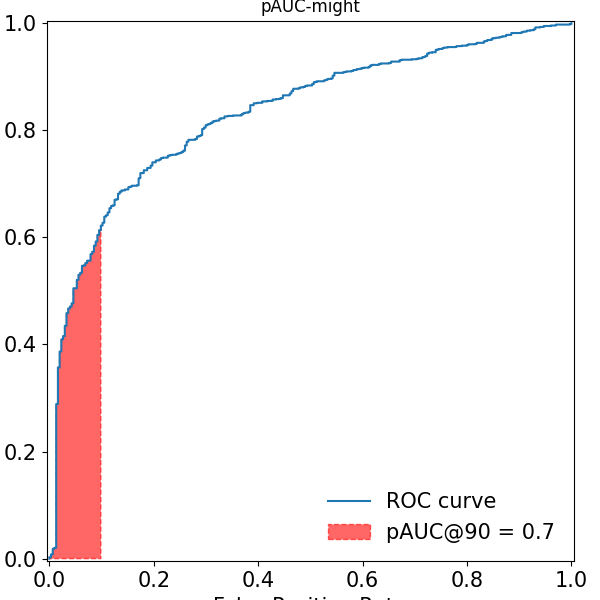
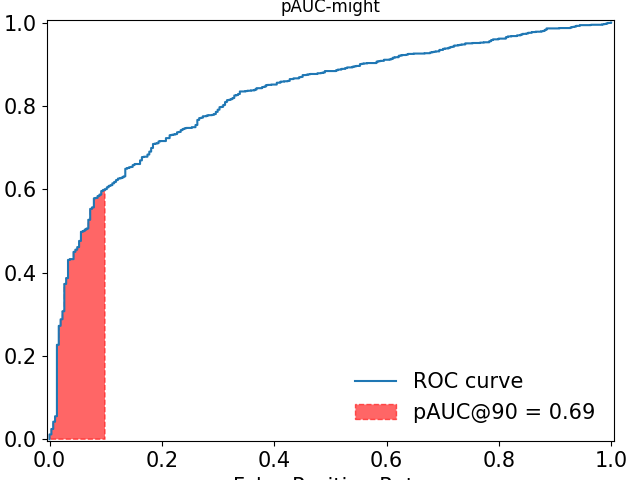
Replication--5 method roc curve in one

Changed region(s): [[0.0, 0.0, 0.99, 1.0], [0.48, 0.0938, 0.72, 0.1562]]

diff --git a/BDD_cancer/cohort_1_demo.py b/BDD_cancer/cohort_1_demo.py
@@ -1,4 +1,5 @@
 from pathlib import Path
+import matplotlib.pyplot as plt
 
 import numpy as np
 from joblib import Parallel, delayed
@@ -26,7 +27,7 @@ import matplotlib.pyplot as plt
 import tree_metrics
 from print_importance import might_importance
 
-n_estimators = 1000
+n_estimators = 5000
 max_features = 0.3
 
 MODEL_NAMES = {
@@ -219,20 +220,17 @@ def run_alog(f1, cohort=cohort1, model_name='might'):
 
     # metrics
     S98 = np.max(tpr[fpr <= 0.02])
-    
-    tree_metrics.plot_S98(S98, fpr, tpr, model_name)
-
+    # tree_metrics.plot_S98(S98, fpr, tpr, model_name)
     MI = tree_metrics.Calculate_MI(model_name, y_1, POS)
-
     pAUC = tree_metrics.Calculate_pAUC(model_name, y_1, POS, fpr, tpr)
-
     hd = tree_metrics.Calculate_hd(model_name, POS)
 
     # importance
-    might_importance(model_name, est, X_combine)
+    # might_importance(model_name, est, X_combine)
 
     # save the model
-    output_fname = (f"{model_name}.npz")
+    output_dir = "./npz"
+    output_fname = os.path.join(output_dir, f"{model_name}.npz")
     print(model_name, f1)
     print(model_name, S98, MI, pAUC, hd)
     np.savez_compressed(
@@ -245,9 +243,53 @@ def run_alog(f1, cohort=cohort1, model_name='might'):
         pAUC=pAUC,
         hd=hd
     )
-    return S98
+    # return S98
+    return {
+        'fpr': fpr,
+        'tpr': tpr,
+        'thresholds': thresholds,
+        'y': y_1,  
+        'POS': POS  
+    }
 
+def plot_all_roc_curves(models, results, save_path="./figures/roc_curves_comparison.png"):
+    plt.figure(figsize=(8, 6))
+    for model_name, result in results.items():
+        fpr, tpr, pAUC = result['fpr'], result['tpr'], result['pAUC']
+        plt.plot(fpr, tpr, label=f'{model_name} (pAUC={pAUC:.3f})')
 
-for i in range(20):
-    Parallel(n_jobs=20)(delayed(run_alog)(f1='WiseCondorX.Wise-1', cohort=cohort1, model_name=modelname)
-                        for modelname in ['might', 'rf', 'knn', 'lr', 'svm'])
+    plt.plot([0, 1], [0, 1], 'k--', lw=1)  
+    # plt.xlim([0.0, 0.02])  
+    # plt.ylim([0.0, 1.0])
+    plt.xlabel('False Positive Rate (FPR)', fontsize=22)
+    plt.ylabel('True Positive Rate (TPR)', fontsize=22)
+    plt.title('ROC Curve Comparison', fontsize=22)
+    plt.legend(loc='lower right', fontsize=20)
+    plt.grid(alpha=0.5)
+    
+    plt.savefig(save_path, dpi=300)
+    print(f"ROC curves saved to {save_path}")
+    plt.show()
+
+################# Run this if you want to plot Roc curve ############################
+# Plot ROC curves for all models, run only once. DON'T need 20 times
+results = {}
+for model_name in ['might', 'rf', 'knn', 'lr', 'svm']:
+    result = run_alog(f1='WiseCondorX.Wise-1', cohort=cohort2, model_name=model_name)
+    fpr = result['fpr']
+    tpr = result['tpr']
+    y_true = result['y']
+    y_pred_proba = result['POS']
+    pAUC = tree_metrics.Calculate_pAUC(model_name, y_true, y_pred_proba, fpr, tpr)
+    results[model_name] = {
+        'fpr': fpr,
+        'tpr': tpr,
+        'pAUC': pAUC
+    }
+
+plot_all_roc_curves(['might', 'rf', 'knn', 'lr', 'svm'], results, save_path="./figures/roc_curves_comparison.png")
+#############################################
+
+# for i in range(20):
+#     Parallel(n_jobs=20)(delayed(run_alog)(f1='WiseCondorX.Wise-1', cohort=cohort1, model_name=modelname)
+#                         for modelname in ['might', 'rf', 'knn', 'lr', 'svm'])

diff --git a/BDD_cancer/tree_metrics.py b/BDD_cancer/tree_metrics.py
@@ -32,7 +32,7 @@ def Calculate_hd(model_name, y_pred_proba) -> float:
 
 
 def plot_S98(S98, fpr, tpr, model_name):
-    fig, ax = plt.subplots(figsize=(6, 6))
+    fig, ax = plt.subplots()
     fig.tight_layout()
     ax.tick_params(labelsize=15)
     ax.set_xlim([-0.005, 1.005])
@@ -60,7 +60,7 @@ def plot_S98(S98, fpr, tpr, model_name):
 
 
 def Calculate_pAUC(model_name, y_true, y_pred_proba, fpr, tpr, max_fpr=0.1) -> float:
-    fig, ax = plt.subplots(figsize=(6, 6))
+    fig, ax = plt.subplots()
     fig.tight_layout()
     ax.tick_params(labelsize=15)
     ax.set_xlim([-0.005, 1.005])
